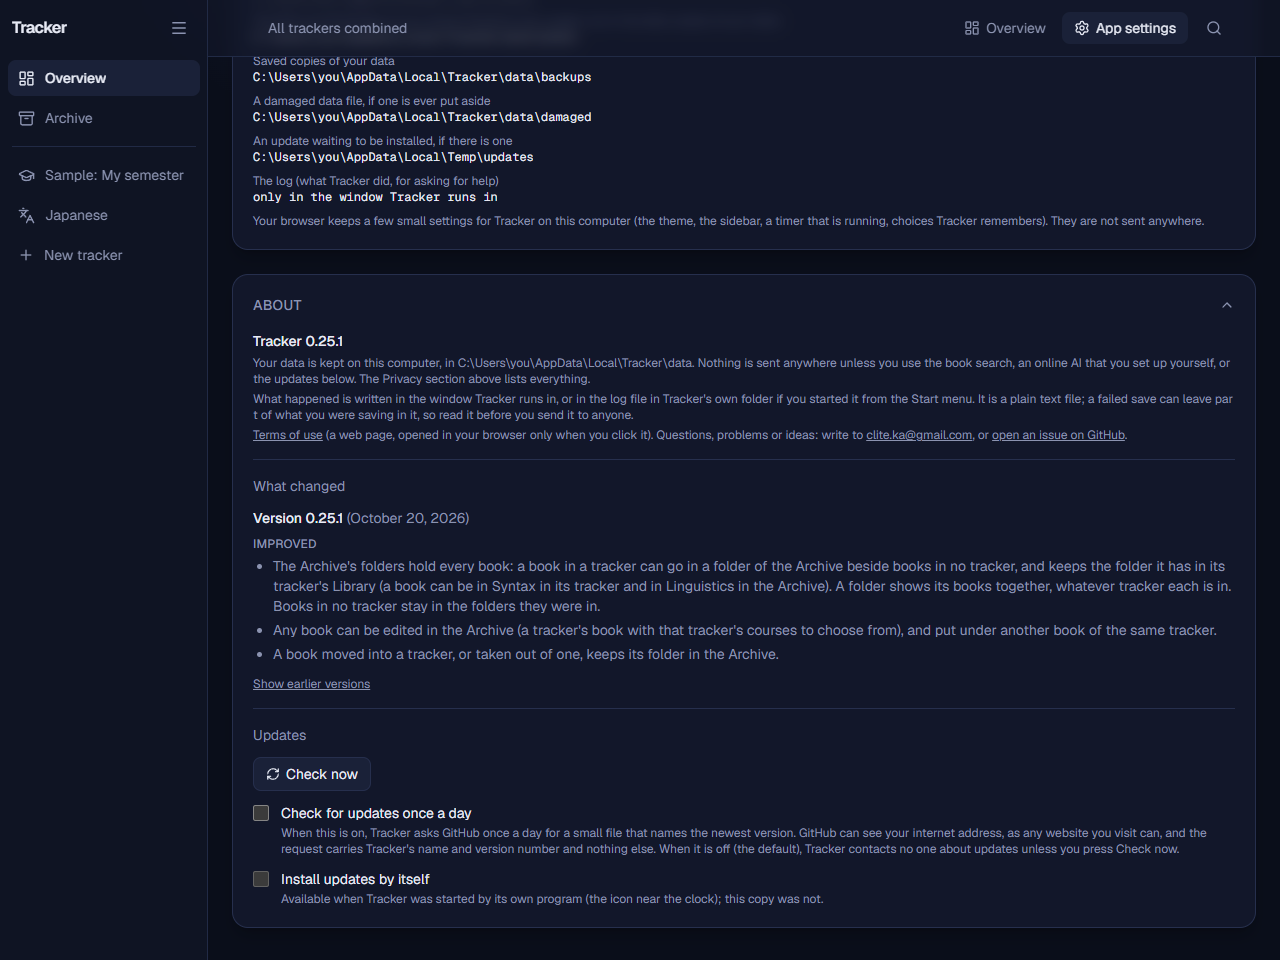
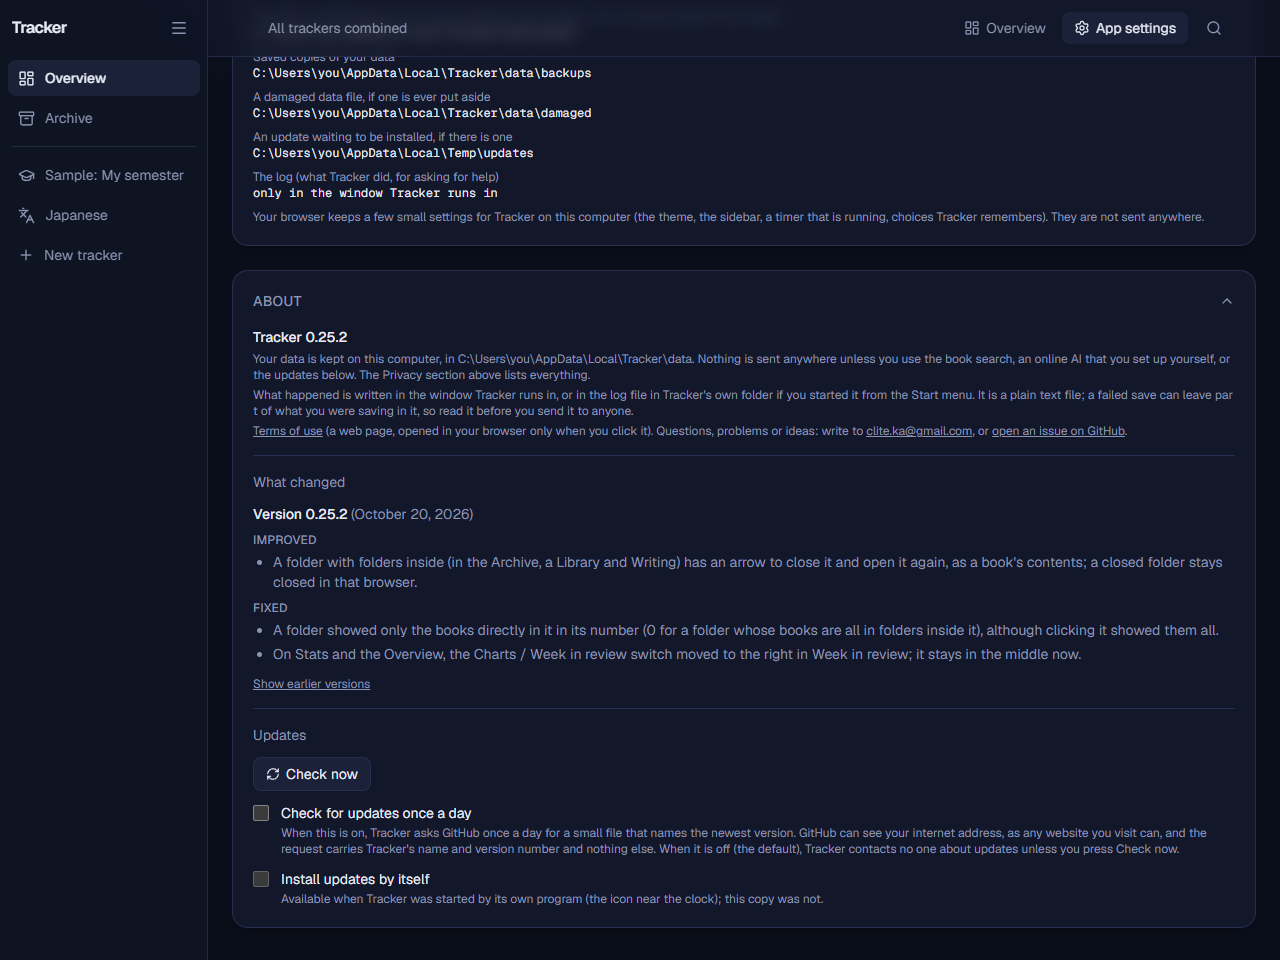
Update the site

Changed region(s): [[0.1875, 0.5, 0.9688, 0.6875], [0.1875, 0.2812, 0.9688, 0.4688], [0.1875, 0.0625, 0.9375, 0.25]]

diff --git a/docs/manual.html b/docs/manual.html
@@ -23,7 +23,7 @@
   </header>
 
   <h1>The full user manual</h1>
-  <p class="lead">Everything Tracker does, part by part. New here? Start with <a href="guide.html">Getting started in ten minutes</a>. This manual describes version 0.25.1; later versions may add things, and App settings, About lists what changed.</p>
+  <p class="lead">Everything Tracker does, part by part. New here? Start with <a href="guide.html">Getting started in ten minutes</a>. This manual describes version 0.25.2; later versions may add things, and App settings, About lists what changed.</p>
 
   <div class="layout">
     <nav class="toc" aria-label="Contents">
@@ -276,7 +276,7 @@
         <p><strong>Dropping files.</strong> Drag PDF or EPUB files onto the Library and each becomes a book with its file attached. Tracker reads from the file what it can: the title and authors, the number of pages, and a cover (the first page of a PDF, the cover picture of an EPUB). If the file names its ISBN, Tracker also looks the book up (as Search does) to fill in the publisher, year, edition and the shop cover; <em>Look up dropped books</em> in App settings, <em>Book search</em>, turns that off.</p>
         <h3 id="folders">Folders and books under books</h3>
         <ul>
-          <li><strong>Folders.</strong> The <em>Folders</em> panel beside the list holds your own folders, for books and documents alike: <em>New folder</em>, and on a folder <em>New folder inside</em>, rename and delete. Click a folder to show what is in it (and in the folders inside it); <em>All books</em> and <em>Not in a folder</em> are at the top. Put a book in a folder by dragging it onto the folder, or with <em>Folder</em> on the book. Deleting a folder keeps what was in it: it moves up to the folder above (or out of any folder).</li>
+          <li><strong>Folders.</strong> The <em>Folders</em> panel beside the list holds your own folders, for books and documents alike: <em>New folder</em>, and on a folder <em>New folder inside</em>, rename and delete. Click a folder to show what is in it (and in the folders inside it); its number counts those too. A folder with folders inside has an arrow to close it and open it again, as a book&rsquo;s contents, and a closed folder stays closed in that browser. <em>All books</em> and <em>Not in a folder</em> are at the top. Put a book in a folder by dragging it onto the folder, or with <em>Folder</em> on the book. Deleting a folder keeps what was in it: it moves up to the folder above (or out of any folder).</li>
           <li><strong>Books under books.</strong> <em>Under</em> on a book puts it under another book, for a chapter, a volume of a series or an article in a collection. It is then listed indented under that book, at any depth. A book cannot go under itself or a book under it.</li>
         </ul>
         <h3 id="archive">The shared Archive</h3>
